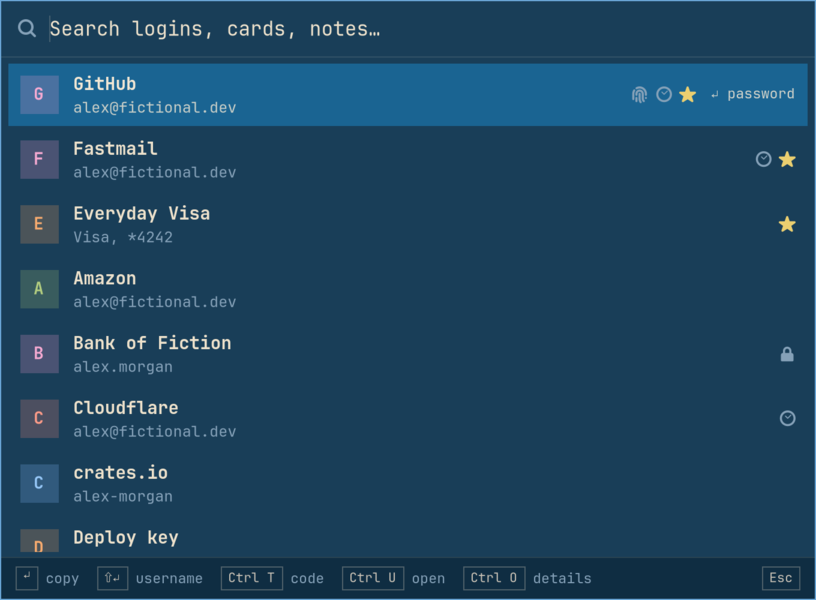
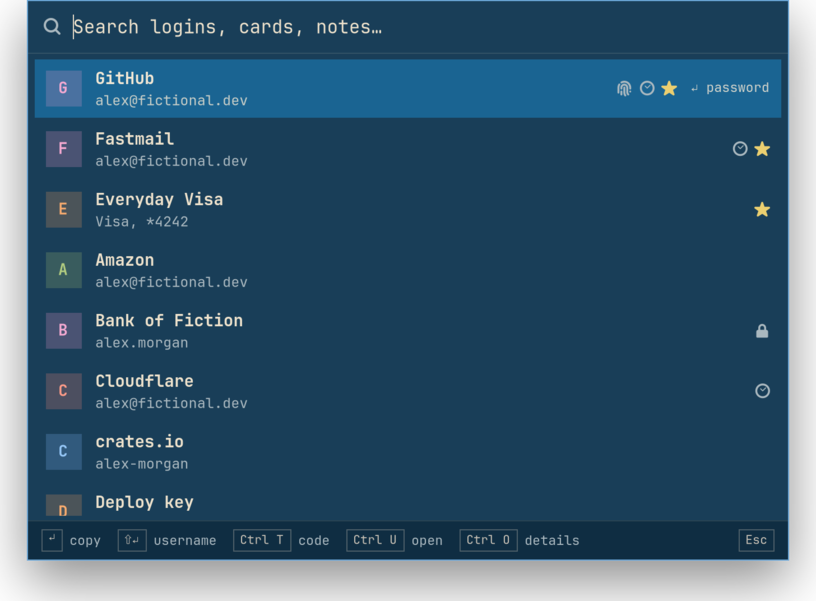
Document the new keys and behavior, and retake the screenshots
The usage guide covers the editor's keys and discard prompt, Undo after
trashing, folder actions from the keyboard, nested folders, searching
all items, the remembered generator options and the pinned tools.
Screenshots come from scripts/screenshots.sh, in the same themes as
before.

Changed region(s): [[0.0, 0.0, 1.0, 1.0]]

diff --git a/docs/USAGE.md b/docs/USAGE.md
@@ -55,16 +55,25 @@ main window instead.
 ## The main window
 
 The sidebar filters the vault: all items, favorites, each item type, your
-folders, organization collections and the trash. **Tools** holds the
-password generator and Send.
+folders, organization collections and the trash. Folders nest as they do in
+Bitwarden: a folder named `Work/Clients` shows as **Clients** under **Work**,
+when a folder named `Work` exists. The password generator and Send stay at
+the foot of the sidebar.
+
+Search covers what the sidebar shows. When a search in a folder or a type
+finds nothing, **Search all items** widens it.
 
 Select an item to see it. Passwords, card numbers, security codes and
 hidden fields stay masked until you press the eye button, and hide again
 after a minute. Notes show in full, except on items that ask for the master
 password. Verification codes show and count down live (they need Bitwarden
 Premium).
-Each field has a copy button, websites open in your browser, and the item
-shows its password history and attachments.
+Revealed passwords color digits and symbols, as the generator does.
+Each field has a copy button, which shows a check once it copies. Websites
+open in your browser, and the item shows its password history and
+attachments. The star beside the item's name adds or removes the favorite,
+and its folder chip opens the folder. A verification code turns the warning
+color in its last five seconds.
 
 | Key | Action |
 | --- | --- |
@@ -73,10 +82,13 @@ shows its password history and attachments.
 | `Ctrl+C` / `Ctrl+B` / `Ctrl+T` | Copy the password / username / verification code |
 | `Ctrl+U` | Open the website |
 | `Ctrl+N` | New login |
+| `Ctrl+E` | Edit the item |
 | `Ctrl+G` | Password generator |
+| `Ctrl+Shift+S` | Send |
 | `Ctrl+R` | Sync |
 | `Ctrl+L` | Lock |
 | `Ctrl+,` | Settings |
+| `Ctrl+?` | Keyboard shortcuts |
 | `Ctrl+Q` | Quit |
 
 ## Copying
@@ -107,30 +119,34 @@ is not cleared.
 - **New items.** The **+** button above the list offers a new login, card,
   identity or note; `Ctrl+N` starts a login. A new item goes into the
   folder you are viewing.
-- **Edit an item** with the pencil button above its details. The editor
-  covers the name, folder, favorite, **Ask for the master password**, the
-  item's own fields, websites, notes and custom fields (text, hidden or
-  checkbox). The password field has a button that generates one. Save or
-  cancel at the top.
+- **Edit an item** with the pencil button above its details, or `Ctrl+E`.
+  The editor covers the name, folder, favorite, **Ask for the master
+  password**, the item's own fields, websites, notes and custom fields
+  (text, hidden or checkbox). The password field has a button that
+  generates one, with the generator's options. Save or cancel at the top,
+  or press `Ctrl+S` or `Esc`. Cancelling asks first if you changed
+  anything.
 - **SSH keys** show their public key and fingerprint; the key itself cannot
   be changed. Everything else can.
 - While you edit, syncs leave your draft alone. Locking throws it away.
 - **More actions** are in the **⋮** menu: add or remove a favorite, **Add
   attachment…**, **Move to organization…** and **Move to trash**. Moving to
   an organization needs at least one collection and cannot be undone from
-  Countersign. Attachments need Bitwarden Premium.
+  Countersign. Attachments need Bitwarden Premium. **Undo**, in the message
+  that follows, takes an item back out of the trash.
 - **In the trash**, the menu offers **Restore** and **Delete forever…**.
 - **Delete an attachment** with the bin button on its row.
-- **Folders.** The **+** button offers **New folder…**. Right-click a folder
-  in the sidebar to rename or delete it; deleting a folder keeps its items,
-  which move to **No folder**.
+- **Folders.** The **+** button offers **New folder…**. To rename or delete a
+  folder, right-click it in the sidebar, press the menu key or `Shift+F10`
+  on it, or use the main menu while it is shown. Deleting a folder keeps its
+  items, which move to **No folder**.
 
 Items set to ask for the master password ask for it before they can be
 edited.
 
 ## Send
 
-**Tools → Send** shares text or a file through Bitwarden Send, end-to-end
+**Send**, at the foot of the sidebar or `Ctrl+Shift+S`, shares text or a file through Bitwarden Send, end-to-end
 encrypted. The list takes a few seconds to load the first time.
 
 - **+** creates a **Text Send** or a **File Send**. File Sends can be up to
@@ -147,11 +163,12 @@ encrypted. The list takes a few seconds to load the first time.
 
 ## Password generator
 
-**Tools → Generator**, or `Ctrl+G`. Make a password (5 to 128 characters,
-with the character sets and minimums you choose) or a passphrase (3 to 20
-words). It starts with a 20-character password. Digits and symbols are
-colored so similar characters are easier to tell apart. **Copy** clears
-like any other copy.
+**Generator**, at the foot of the sidebar, or `Ctrl+G`. Make a password (5
+to 128 characters, with the character sets and minimums you choose) or a
+passphrase (3 to 20 words). It starts with a 20-character password and
+remembers the options you choose; the editor's generate button uses them
+too. Digits and symbols are colored so similar characters are easier to
+tell apart. **Copy** clears like any other copy.
 
 ## Locking
 
